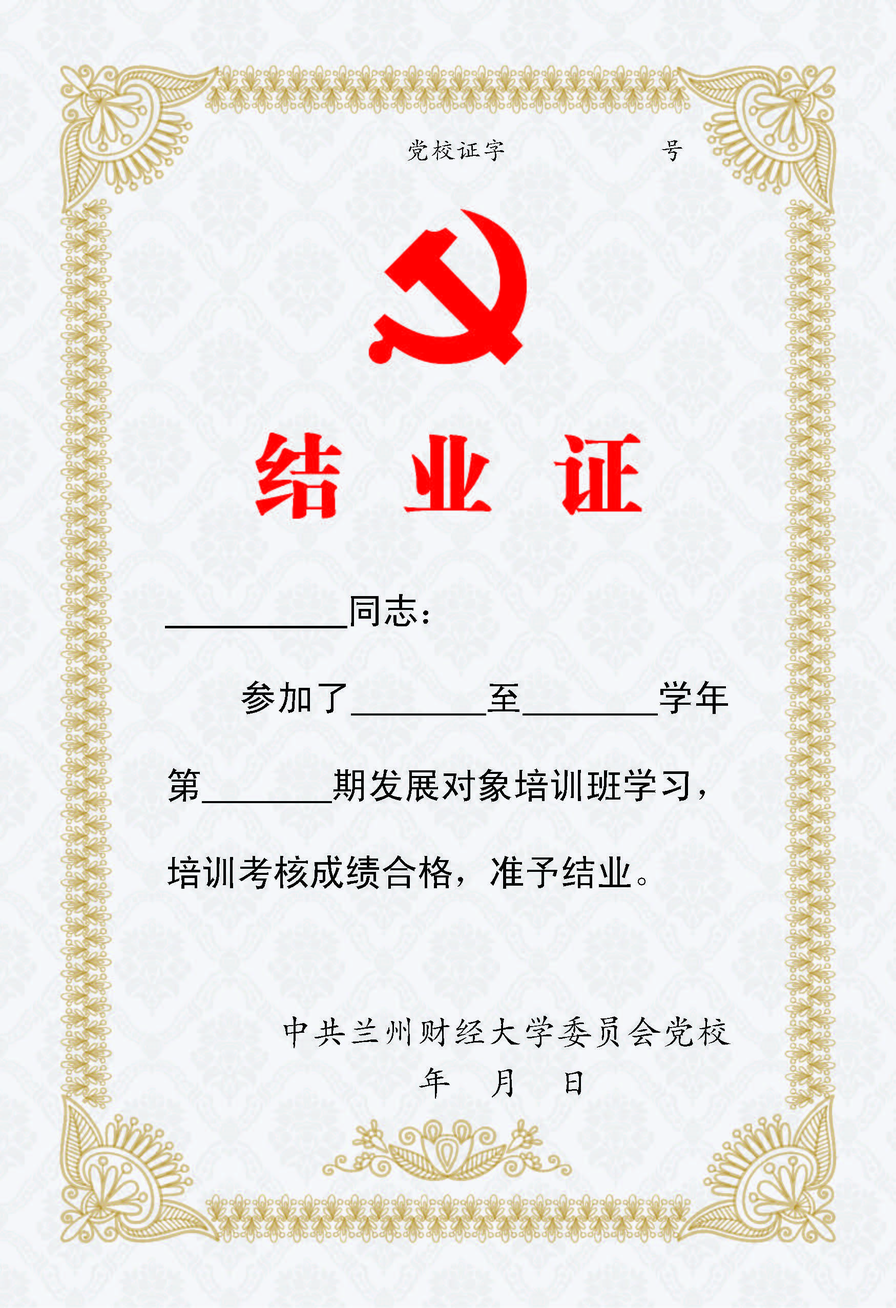
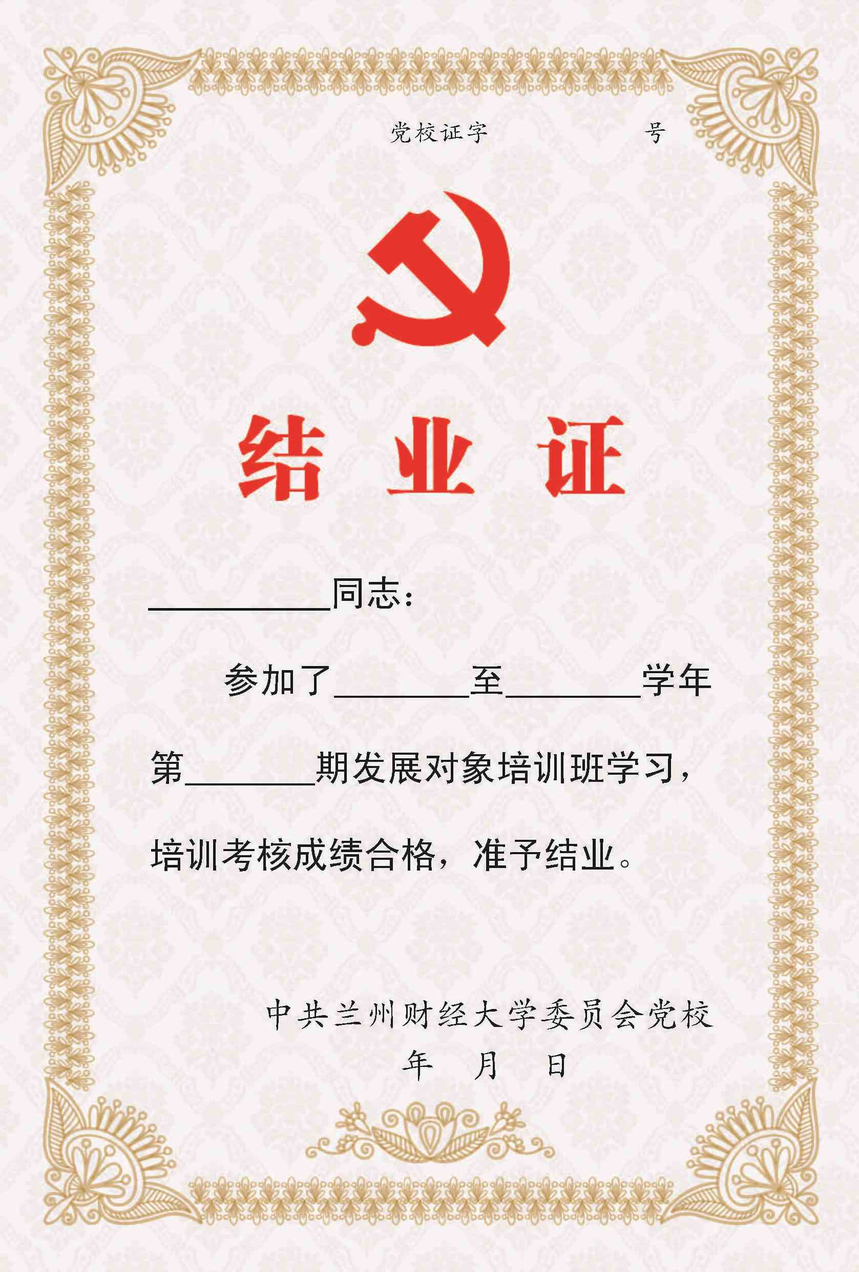
修改打印

diff --git a/PartyMemberManager/wwwroot/js/site.js b/PartyMemberManager/wwwroot/js/site.js
@@ -409,6 +409,36 @@ function showContent(url, title, width = 600, height = 400) {
         });
     });
 }
+/**
+ * 显示打印对话框
+ * @param {String} url - 编辑页面的url
+ * @param {String} title - 编辑窗体标题
+ * @param {Integer} width - 编辑窗口宽度
+ * @param {Integer} height - 编辑窗口高度
+ * @param {Function} callBack - 编辑结束并保存后的回调函数
+ */
+function showPrint(url, title, width = 600, height = 400, callBack) {
+    top.layui.use('layer', function () {
+        var layer = top.layui.layer;
+        layer.ready(function () {
+            var index = layer.load(2);
+            layer.open({
+                title: title
+                , area: [width.toString() + 'px', height.toString() + 'px']
+                , type: 2
+                , content: [url, 'no']//第二个参数no，表示不显示iframe滚动条
+                , btnAlign: 'c'
+                , btn: []
+                , cancel: function (index, layero) {
+                    if (callBack != null)
+                        callBack();
+                    layer.close(index);
+                }
+            });
+            layer.close(index);
+        });
+    });
+}
 
 /**
  * 显示编辑对话框

diff --git a/PartyMemberManager/Controllers/PotentialTrainResultsController.cs b/PartyMemberManager/Controllers/PotentialTrainResultsController.cs
@@ -519,31 +519,32 @@ namespace PartyMemberManager.Controllers
                         CreatedBy = "预备党员管理系统",
                         Description = "预备党员管理系统",
                         BackgroundImage = "PotentialTrain.png",
+                        Rotate = 0,
                         DisplayItems = new List<DisplayItem>
                 {
                     new DisplayItem{
                         Text=potentialMemberPrintViewModel.No,
                         Font="楷体",
                         FontSize=10,
-                        Location=new System.Drawing.PointF(82,22.3f)
+                        Location=new System.Drawing.PointF(82.5f,20f)
                     },
                     new DisplayItem{
                         Text=potentialMemberPrintViewModel.Name,
                         Font="楷体",
                         FontSize=18,
-                        Location=new System.Drawing.PointF(30,93)
+                        Location=new System.Drawing.PointF(30,93.5f)
                     },
                     new DisplayItem{
                         Text=potentialMemberPrintViewModel.StartYear,
                         Font="楷体",
                         FontSize=18,
-                        Location=new System.Drawing.PointF(60,108)
+                        Location=new System.Drawing.PointF(60,108.5f)
                     },
                     new DisplayItem{
                         Text=potentialMemberPrintViewModel.EndYear,
                         Font="楷体",
                         FontSize=18,
-                        Location=new System.Drawing.PointF(90,108)
+                        Location=new System.Drawing.PointF(90,108.5f)
                     },
                     new DisplayItem{
                         Text=potentialMemberPrintViewModel.Term,
@@ -555,19 +556,19 @@ namespace PartyMemberManager.Controllers
                         Text=potentialMemberPrintViewModel.Year,
                         Font="楷体",
                         FontSize=16,
-                        Location=new System.Drawing.PointF(55,171)
+                        Location=new System.Drawing.PointF(55,173)
                     },
                     new DisplayItem{
                         Text=potentialMemberPrintViewModel.Month,
                         Font="楷体",
                         FontSize=16,
-                        Location=new System.Drawing.PointF(75,171)
+                        Location=new System.Drawing.PointF(74,173)
                     },
                     new DisplayItem{
                         Text=potentialMemberPrintViewModel.Day,
                         Font="楷体",
                         FontSize=16,
-                        Location=new System.Drawing.PointF(84,171)
+                        Location=new System.Drawing.PointF(84,173)
                     }
                 }
 
@@ -588,50 +589,51 @@ namespace PartyMemberManager.Controllers
                         DocumentName = "发展对象培训结业证",
                         CreatedBy = "预备党员管理系统",
                         Description = "预备党员管理系统",
+                        Rotate = 0,
                         BackgroundImage = "PotentialTrain.png",
                         DisplayItems = new List<DisplayItem>
                 {
                     new DisplayItem{
                         Text=$@"党校证字 {potentialMemberPrintViewModel.No} 号",
                         Font="楷体",
-                        FontSize=10,
-                        Location=new System.Drawing.PointF(65,22)
+                        FontSize=10.6f,
+                        Location=new System.Drawing.PointF(64,20)
                     },
                     new DisplayItem{
                         Text=$@"{name} 同志：",
                         Font="黑体",
-                        FontSize=18,
+                        FontSize=16.8f,
                         Location=new System.Drawing.PointF(27,95)
                     },
                     new DisplayItem{
-                        Text=$@"参加了 {potentialMemberPrintViewModel.StartYear} 至 {potentialMemberPrintViewModel.EndYear} 学年",
+                        Text=$@"参加了  {potentialMemberPrintViewModel.StartYear} 至  {potentialMemberPrintViewModel.EndYear} 学年",
                         Font="黑体",
-                        FontSize=18.5f,
-                        Location=new System.Drawing.PointF(38,109)
+                        FontSize=16.8f,
+                        Location=new System.Drawing.PointF(37,109)
                     },
                     new DisplayItem{
-                        Text=$@"第 {potentialMemberPrintViewModel.Term} 期发展对象培训班学习，",
+                        Text=$@"第  {potentialMemberPrintViewModel.Term}   期发展对象培训班学习，",
                         Font="黑体",
-                        FontSize=18.5f,
-                        Location=new System.Drawing.PointF(27,123)
+                        FontSize=16.8f,
+                        Location=new System.Drawing.PointF(25.2f,124)
                     },
                     new DisplayItem{
                         Text=$@"培训考核成绩合格，准予结业。",
                         Font="黑体",
-                        FontSize=18.5f,
-                        Location=new System.Drawing.PointF(27,137)
+                        FontSize=16.8f,
+                        Location=new System.Drawing.PointF(25.2f,138)
                     },
                     new DisplayItem{
                         Text=$@"中共兰州财经大学委员会党校",
                         Font="楷体",
-                        FontSize=15.8f,
-                        Location=new System.Drawing.PointF(45,163)
+                        FontSize=16.4f,
+                        Location=new System.Drawing.PointF(43,164.5f)
                     },
                     new DisplayItem{
                         Text=$@"{potentialMemberPrintViewModel.Year}年{potentialMemberPrintViewModel.Month}月{potentialMemberPrintViewModel.Day}日",
                         Font="楷体",
-                        FontSize=16,
-                        Location=new System.Drawing.PointF(56,171)
+                        FontSize=17.3f,
+                        Location=new System.Drawing.PointF(55,173)
                     }
                 }
 

diff --git a/PartyMemberManager/PdfProvider/PdfSharpService.cs b/PartyMemberManager/PdfProvider/PdfSharpService.cs
@@ -26,16 +26,21 @@ namespace AspNetCorePdf.PdfProvider
             }
 
             var document = new PdfDocument();
-            foreach (PdfData  pdfData in pdfDatas)
+            document.Info.Author = "预备党员管理系统";
+            document.PageMode = PdfPageMode.FullScreen;
+            document.Settings.TrimMargins = new TrimMargins { All = new XUnit(0, XGraphicsUnit.Millimeter) };
+            foreach (PdfData pdfData in pdfDatas)
             {
                 var page = document.AddPage();
+                page.Rotate = pdfData.Rotate;
+                page.TrimMargins = new TrimMargins { All = new XUnit(0, XGraphicsUnit.Millimeter) };
                 //A4 new XSize(595, 842);，从mm转换
                 page.Width = new XUnit(pdfData.PageSize.Width, XGraphicsUnit.Millimeter);// (int)(pdfData.PageSize.Width * scale);
                 page.Height = new XUnit(pdfData.PageSize.Height, XGraphicsUnit.Millimeter);// (int)(pdfData.PageSize.Height * scale);
-                var gfx = XGraphics.FromPdfPage(page,XGraphicsUnit.Millimeter);
+                var gfx = XGraphics.FromPdfPage(page, XGraphicsUnit.Millimeter);
                 //暂时不打印背景
-                //if (!string.IsNullOrEmpty(pdfData.BackgroundImage))
-                //    AddBackground(gfx, page, $"{_imagesPath}\\{pdfData.BackgroundImage}", 0, 0);
+                if (!string.IsNullOrEmpty(pdfData.BackgroundImage))
+                    AddBackground(gfx, page, $"{_imagesPath}\\{pdfData.BackgroundImage}", 0, 0);
                 //AddTitleAndFooter(page, gfx, pdfData.DocumentTitle, document, pdfData);
                 //AddDescription(gfx, pdfData);
                 AddText(gfx, pdfData);
@@ -62,7 +67,7 @@ namespace AspNetCorePdf.PdfProvider
             double imageScale = imageHeight / page.Height;
             //gfx.DrawImage(xImage, xPosition, yPosition, xImage.PixelWidth / imageScale, xImage.PixelHeight / imageScale);
             XRect xrectSource = new XRect { X = xPosition, Y = yPosition, Width = imageWidth.Millimeter, Height = imageHeight.Millimeter };
-            XRect xrect = new XRect { X = xPosition, Y = yPosition, Width = imageWidth.Millimeter/ imageScale, Height = imageHeight.Millimeter / imageScale };
+            XRect xrect = new XRect { X = xPosition, Y = yPosition, Width = imageWidth.Millimeter / imageScale, Height = imageHeight.Millimeter / imageScale };
 
             gfx.DrawImage(xImage, xrect, xrect, XGraphicsUnit.Millimeter);
         }

diff --git a/PartyMemberManager/Controllers/ActivistTrainResultsController.cs b/PartyMemberManager/Controllers/ActivistTrainResultsController.cs
@@ -593,11 +593,12 @@ namespace PartyMemberManager.Controllers
                     var data = new PdfData
                     {
                         //A4 new XSize(595, 842);
-                        PageSize = new System.Drawing.Size(287, 211),
+                        PageSize = new System.Drawing.Size(287, 210),
                         DocumentTitle = "入党积极分子培训结业证",
                         DocumentName = "入党积极分子培训结业证",
                         CreatedBy = "预备党员管理系统",
                         Description = "预备党员管理系统",
+                        Rotate = 90,
                         BackgroundImage = "ActivistTrain.png",
                         DisplayItems = new List<DisplayItem>
                 {
@@ -666,11 +667,12 @@ namespace PartyMemberManager.Controllers
                     var data = new PdfData
                     {
                         //A4 new XSize(595, 842);
-                        PageSize = new System.Drawing.Size(287, 211),
+                        PageSize = new System.Drawing.Size(287, 210),
                         DocumentTitle = "入党积极分子培训结业证",
                         DocumentName = "入党积极分子培训结业证",
                         CreatedBy = "预备党员管理系统",
                         Description = "预备党员管理系统",
+                        Rotate=90,
                         BackgroundImage = "ActivistTrain.png",
                         DisplayItems = new List<DisplayItem>
                 {

diff --git a/PartyMemberManager/PdfProvider/DataModel/PdfData.cs b/PartyMemberManager/PdfProvider/DataModel/PdfData.cs
@@ -22,5 +22,6 @@ namespace AspNetCorePdf.PdfProvider.DataModel
         public List<DisplayItem>  DisplayItems { get; set; }
         public string DocumentName { get; set; }
         public string BackgroundImage { get; set; }
+        public int Rotate { get; set; }
     }
 }
